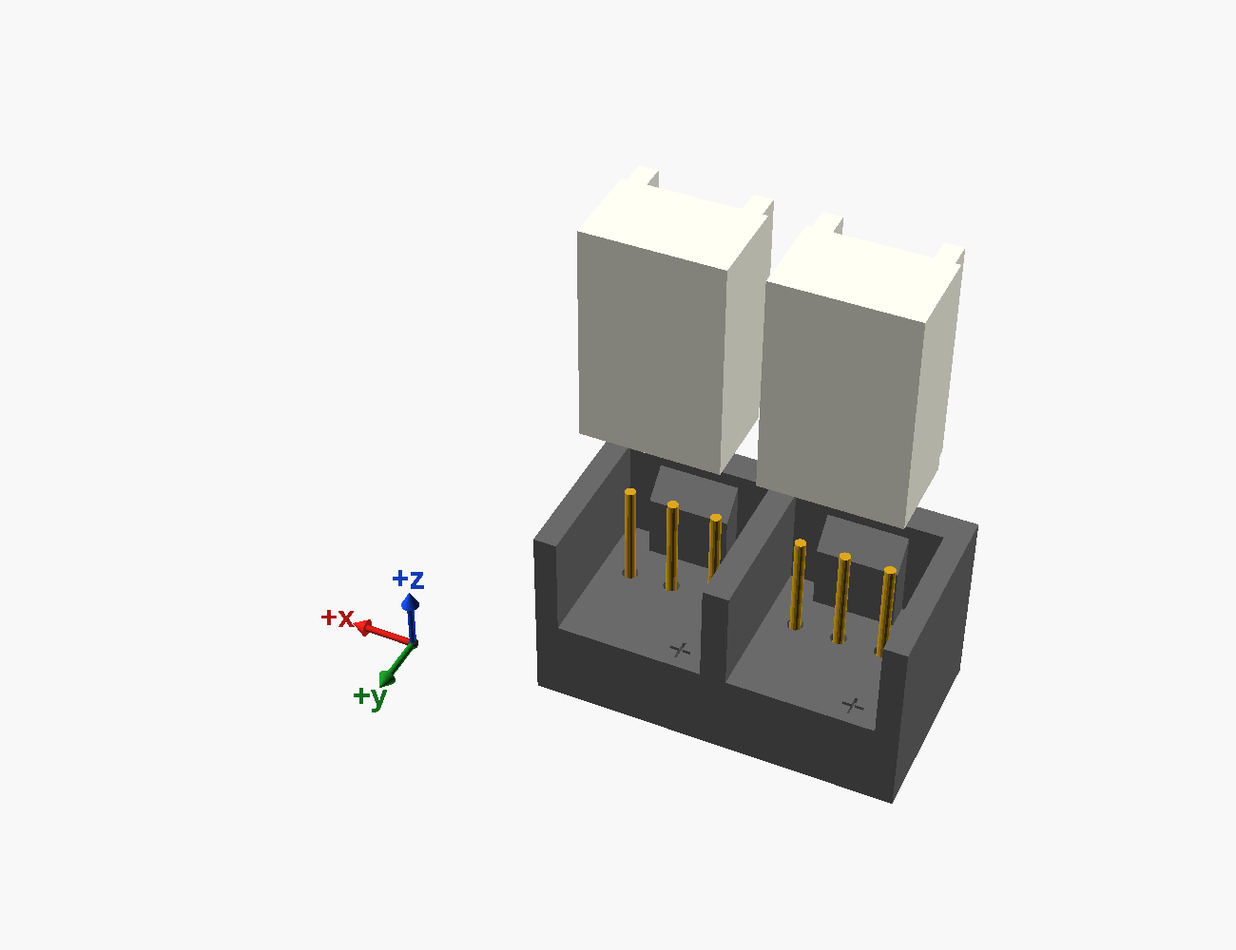
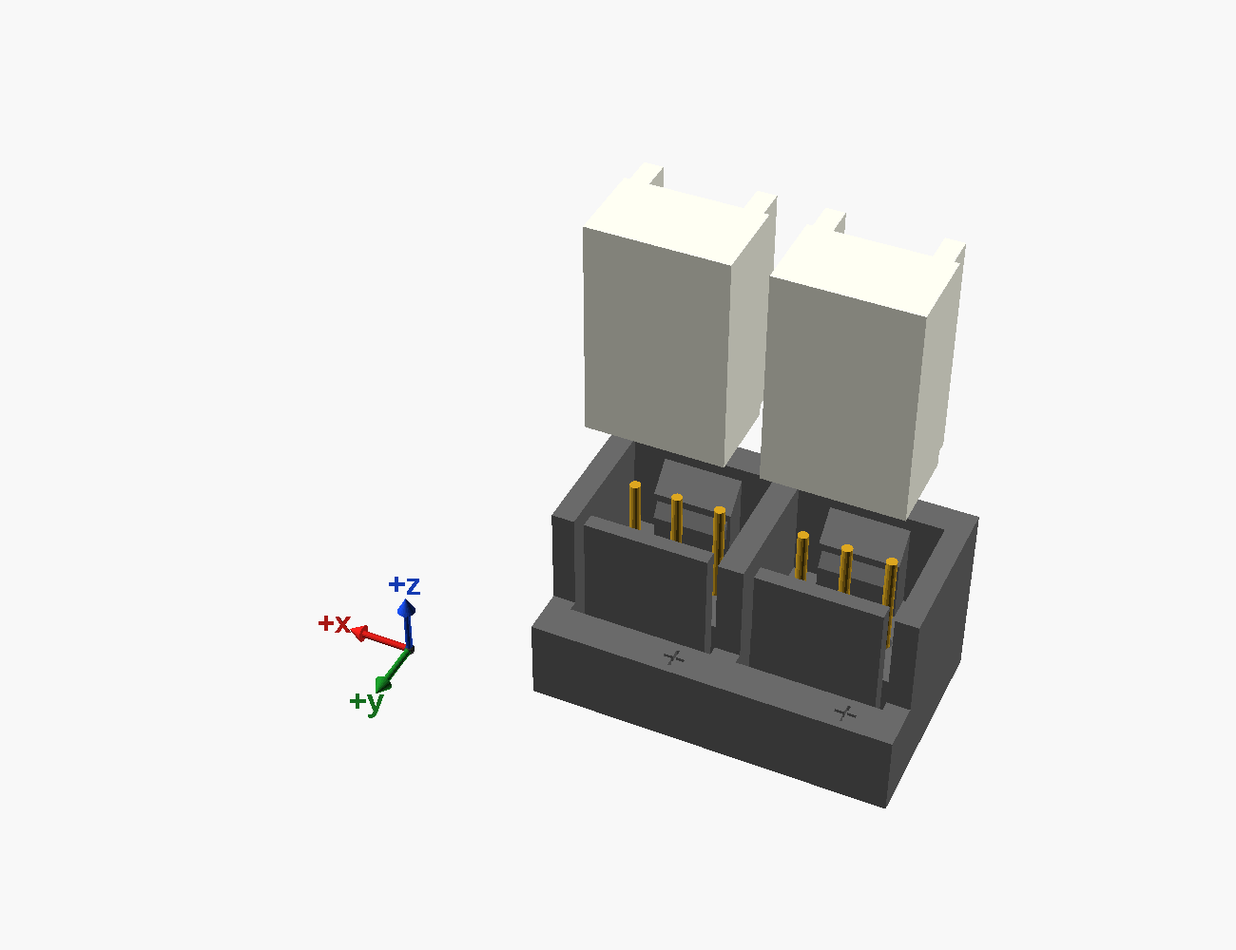
feat(bentobox): the mate's front walls and clips, and a glue frame
The fans' plug mate, as the fan connector's male (Alon, 9 Oct 2026): a wall
in front of each plug's text face, and D174 c - a clip on each key that
catches over the plug's lip and presses on it. Each front wall is a spring,
two lines thick, freed by 0.6 mm slits down into the block, so it gives for
the lip to pass. The plug's model gains its measured lip (0.3 x 2.2). New
views: the seated plug clears the clip with its press taken off; slid on
and off as far forward as its front wall allows, it meets nothing but the
clip, and must meet the clip (MEETS: the first check that must not come out
empty). 18 m, 1.6 g; still clear of the fans and the grommet.

T131: the clamp's wedges and teeth printed thin and fragile from damp ASA,
so the HEPA paper is now hot-glued into one frame (hepa_frame = "glue",
the default): the clamp's outline, walls three lines and 3 mm, a rim on the
ledge leaving its opening open, 94.1 mm of paper at 18 pleats cut on top
folds. Glue goes in from the top only. Its sample is one end, 32 m. The
clamp is shelved and still builds: its part files and checks run with
hepa_frame = "clamp", its numbers and figures unchanged; pleat.py stays on
it. The ASA sample plate carries the glue sample: 7 bodies.

Fits 45 of 45, controls 61 of 61; each new assert seen to fire; every part
built one closed body. The page records the samples tried 9 Oct: the USB-C
board fits perfectly, one tray nut spun, the fan nut's seat is loose.

diff --git a/scripts/bentobox-checks.py b/scripts/bentobox-checks.py
@@ -15,7 +15,7 @@
                                                for errors - rendered aside, or over docs/ with --write
 
 A fit check intersects two parts that may touch but must not overlap: OpenSCAD must write nothing, or a
-solid of no volume. The originals must be in models/bentobox/original/ (its README says where from); a
+solid of no volume - all but those in MEETS, which must meet, and whose controls must empty them. The originals must be in models/bentobox/original/ (its README says where from); a
 missing one makes an import fail, which OpenSCAD reports only as a WARNING - so every render's output is
 read, never only its exit code. OPENSCAD should name a build with the Manifold backend (the nightly).
 Exit status: 0 everything as expected, 1 anything else.
@@ -39,13 +39,17 @@ BACKEND = ["--backend=manifold"]
 UNSEALED = [("sealed", "false")]
 # The C-MAG stands in a housing of the original's height: its fit in the housing is checked with carbon = "cmag".
 CMAG = [("carbon", '"cmag"')]
+# The paper's clamp is shelved for the glue frame (T131) but kept buildable: its checks run with hepa_frame = "clamp".
+CLAMP = [("hepa_frame", '"clamp"')]
 FITS = [("check_section_carbon", UNSEALED), ("check_section_fans", UNSEALED), ("check_magnets_top", UNSEALED),
         ("check_magnets_bottom", UNSEALED), ("check_air", []),
-        ("check_clamp_holder", []), ("check_cover_holder", []), ("check_cover_magnets", []),
-        ("check_cmag_housing", CMAG), ("check_cmag_halves", []), ("check_cmag_magnets", []), ("check_cmag_grills", []), ("check_clamp_frames", []), ("check_clamp_paper", []),
-        ("check_clamp_opening", []), ("check_clamp_screws", []), ("check_clamp_nuts", []), ("check_clamp_nut_ways", []),
+        ("check_glue_holder", []), ("check_glue_paper", []), ("check_glue_opening", []),
+        ("check_clamp_holder", CLAMP), ("check_cover_holder", []), ("check_cover_magnets", []),
+        ("check_cmag_housing", CMAG), ("check_cmag_halves", []), ("check_cmag_magnets", []), ("check_cmag_grills", []), ("check_clamp_frames", CLAMP), ("check_clamp_paper", CLAMP),
+        ("check_clamp_opening", CLAMP), ("check_clamp_screws", CLAMP), ("check_clamp_nuts", CLAMP), ("check_clamp_nut_ways", CLAMP),
         ("check_auto_fans_base", []), ("check_auto_tray", []), ("check_tray_slot_walls", []), ("check_usb_board", []),
         ("check_grommet_hole", []), ("check_fan_mate", []), ("check_fan_mate_pins", []), ("check_fan_mate_place", []),
+        ("check_fan_mate_seat", []), ("check_fan_mate_free", []), ("check_fan_mate_catch", []),
         ("check_auto_nuts", []), ("check_auto_nut_ways", []),
         ("check_auto_screws", []), ("check_auto_wires", []), ("check_auto_air", []),
         ("check_seal_j1", []), ("check_seal_j2", []), ("check_seal_j3", []), ("check_seal_beads", []),
@@ -61,16 +65,21 @@ CONTROLS = [
     ("check_magnets_top", UNSEALED + [("mag_xy", "[23.5, 52.5]")], "the section's magnet holes moved 1 mm off the housing's"),
     ("check_magnets_bottom", UNSEALED + [("mag_xy", "[23.5, 52.5]")], "the same, against the fan case's"),
     ("check_air", [("in_w", "30")], "the section's inside narrowed into the openings' path"),
-    ("check_clamp_holder", [("clamp_play", "-0.3")], "the clamp made wider than the holder's pocket"),
-    ("check_clamp_frames", [("clamp_slot", "-0.4")], "the wedges and teeth made to meet through the paper's slot"),
-    ("check_clamp_opening", [("rim_in", "-13")], "the lower frame's rim made to reach in over the air's way down"),
-    ("check_clamp_screws", [("screw_shift", "[1, 0]")], "the clamp's screws moved 1 mm off their holes"),
-    ("check_clamp_nuts", [("pull_fit", "-0.25")], "the clamp's nut seats made narrower than a nut"),
-    ("check_clamp_nut_ways", [("clamp_way", "1")], "the clamp's nut ways stopped short of the lower frame's bottom"),
+    # The glue frame's inside and rim are derived: overriding them moves the frame and leaves the paper and the ledge.
+    ("check_glue_holder", [("clamp_play", "-0.3")], "the glue frame made wider than the holder's pocket"),
+    ("check_glue_paper", [("gf_in", "[18.5, 47.25]")], "the glue frame's side walls moved in onto the paper's top folds"),
+    ("check_glue_paper", [("gf_in", "[18.9, 46.8]")], "its end walls moved in onto the paper's cut ends"),
+    ("check_glue_opening", [("gf_rim", "[35, 85]")], "its rim made to reach in over the ledge's opening"),
+    ("check_clamp_holder", CLAMP + [("clamp_play", "-0.3")], "the clamp made wider than the holder's pocket"),
+    ("check_clamp_frames", CLAMP + [("clamp_slot", "-0.4")], "the wedges and teeth made to meet through the paper's slot"),
+    ("check_clamp_opening", CLAMP + [("rim_in", "-13")], "the lower frame's rim made to reach in over the air's way down"),
+    ("check_clamp_screws", CLAMP + [("screw_shift", "[1, 0]")], "the clamp's screws moved 1 mm off their holes"),
+    ("check_clamp_nuts", CLAMP + [("pull_fit", "-0.25")], "the clamp's nut seats made narrower than a nut"),
+    ("check_clamp_nut_ways", CLAMP + [("clamp_way", "1")], "the clamp's nut ways stopped short of the lower frame's bottom"),
     # The wedges' width is derived; overriding it moves the wedges and leaves the paper, drawn from its own values.
-    ("check_clamp_paper", [("wedge_w", "4")], "the clamp's wedges made wider than the paper's channels"),
-    ("check_clamp_paper", [("tooth_w", "4")], "the clamp's teeth made wider than theirs"),
-    ("check_clamp_paper", [("flap_off", "0")], "the half wedges' faces moved in onto the flaps' middles"),
+    ("check_clamp_paper", CLAMP + [("wedge_w", "4")], "the clamp's wedges made wider than the paper's channels"),
+    ("check_clamp_paper", CLAMP + [("tooth_w", "4")], "the clamp's teeth made wider than theirs"),
+    ("check_clamp_paper", CLAMP + [("flap_off", "0")], "the half wedges' faces moved in onto the flaps' middles"),
     ("check_auto_fans_base", [("fans_drop", "0.5")], "the fan section set 0.5 mm down into its base"),
     ("check_auto_tray", [("tray_top", "14.3")], "the tray made 0.3 mm taller than the bay's roof"),
     ("check_tray_slot_walls", [("tray_screw_y", "51.4")], "the tray's screws moved 1 mm in, their slots' backs under the end walls' fillets"),
@@ -83,6 +92,10 @@ CONTROLS = [
     ("check_fan_mate", [("fm_wall_y", "-3.2")], "the mate's wall moved in onto the plug's ribs"),
     ("check_fan_mate", [("fm_key_y", "-1.7")], "the key's face moved in onto the plug's ribbed face"),
     ("check_fan_mate", [("fm_px", "3.8")], "the mate's end walls and the wall between the plugs moved in onto their ends"),
+    ("check_fan_mate", [("fm_fy", "3.1")], "the mate's front walls moved in onto the plugs' text faces"),
+    ("check_fan_mate_seat", [("fmp_plug_lip_l", "2.4")], "the plug's lip made longer, up into the clip's underside"),
+    ("check_fan_mate_free", [("fm_px", "3.8")], "the mate's walls moved in, into the sliding plugs' way"),
+    ("check_fan_mate_catch", [("fm_fy", "3.6")], "the front walls moved out: the plugs step round the clips"),
     ("check_fan_mate_pins", [("fan_pitch", "3.3")], "the mate's pins spread to 3.3 mm, off the plug's holes"),
     ("check_fan_mate_pins", [("fm_core_d", "0.5")], "the block's holes made narrower than the wire's core"),
     ("check_fan_mate_place", [("fan_mate_at", "[4, 0]")], "the mate moved 6 mm towards the grommet"),
@@ -119,6 +132,8 @@ CONTROLS = [
     ("check_section_fans", UNSEALED + [("auto_fans_stl", '"original/missing.stl"')], "the Auto fan section's STL missing - must be reported, not passed"),
 ]
 MISSING = "Can't open import file"
+# The checks that must NOT come out empty: the plug slid off past the clip must meet it. Their controls must empty them.
+MEETS = {"check_fan_mate_catch"}
 
 # The checks hold parts that meet face to face 0.01 mm apart (bentobox-assembly.scad, `sep`), so a good fit
 # leaves NOTHING; DUST is only float noise.
@@ -138,11 +153,17 @@ def fits():
     failed = 0
     for (view, settings), (stats, bad, _) in zip(FITS, results):
         label = f"{view} {' '.join(f'{k}={v}' for k, v in settings)}"
+        empty = stats is None or abs(stats["volume"]) < DUST
         if bad:
             verdict, failed = "FAIL  " + "; ".join(bad)[:200], failed + 1
+        elif view in MEETS:
+            if empty:
+                verdict, failed = "FAIL  empty: it must meet", failed + 1
+            else:
+                verdict = f"ok    meets, {stats['volume']:.3f} mm3"
         elif stats is None:
             verdict = "ok    empty"
-        elif abs(stats["volume"]) < DUST:
+        elif empty:
             verdict = f"ok    dust ({stats['volume']:.5f} mm3)"
         else:
             verdict, failed = f"FAIL  {stats['volume']:.3f} mm3 overlap, in {describe(stats)}", failed + 1
@@ -162,6 +183,10 @@ def controls():
             failed += not caught
         elif bad:
             verdict, failed = "FAIL  " + "; ".join(bad)[:200], failed + 1
+        elif view in MEETS:
+            emptied = stats is None or abs(stats["volume"]) < DUST
+            verdict = "ok    caught, it came out empty" if emptied else f"BLIND still meets, {stats['volume']:.3f} mm3"
+            failed += not emptied
         elif stats is None or abs(stats["volume"]) < DUST:
             verdict, failed = "BLIND nothing found", failed + 1
         else:
@@ -175,8 +200,8 @@ def controls():
 FIGURES = {
     "exploded": [("view", '"exploded"')], "cut": [("view", '"cut"'), ("cut_x", "0")],
     "section-top": [("view", '"section"')], "section-bottom": [("view", '"section"'), ("axes_cam", "[235, 0, 30]")],
-    "paper-frame": [("view", '"frame"'), ("explode", "25")], "clamp-print": [("view", '"clamp_print"')],
-    "paper-cut": [("view", '"paper_cut"')], "auto-bottom": [("view", '"bottom"'), ("explode", "28"), ("axes_cam", "[50, 0, 215]")],
+    "paper-frame": [("view", '"frame"'), ("explode", "25")] + CLAMP, "clamp-print": [("view", '"clamp_print"')] + CLAMP,
+    "paper-cut": [("view", '"paper_cut"')] + CLAMP, "glue-frame": [("view", '"glue"'), ("explode", "30")], "auto-bottom": [("view", '"bottom"'), ("explode", "28"), ("axes_cam", "[50, 0, 215]")],
     "joints": [("view", '"joints"'), ("explode", "22")], "grommet": [("view", '"grommet"'), ("axes_cam", "[50, 0, 20]")],
     "fan-mate": [("view", '"fan_mate"'), ("explode", "12"), ("axes_cam", "[50, 0, 205]")],
 }
@@ -186,6 +211,7 @@ CAMERAS = {
     "section-top": ["--imgsize=1400,900", "--viewall", "--autocenter", "--camera=0,0,0,55,0,30,0"],
     "section-bottom": ["--imgsize=1400,900", "--viewall", "--autocenter", "--camera=0,0,0,235,0,30,0"],
     "paper-frame": ["--imgsize=1400,1100", "--viewall", "--autocenter", "--camera=0,0,0,55,0,30,0"],
+    "glue-frame": ["--imgsize=1400,1100", "--viewall", "--autocenter", "--camera=0,0,0,55,0,30,0"],
     "clamp-print": ["--imgsize=1400,900", "--viewall", "--autocenter", "--camera=0,0,0,55,0,25,0"],
     "paper-cut": ["--imgsize=1800,600", "--projection=o", "--camera=-12,11,0,0,0,0,125"],
     "auto-bottom": ["--imgsize=1400,1300", "--viewall", "--autocenter", "--camera=0,0,0,50,0,215,0"],

diff --git a/sim/bentobox-cfd/pleat.py b/sim/bentobox-cfd/pleat.py
@@ -59,7 +59,7 @@ def clamp():
     src = ROOT / "models" / "bentobox" / "bentobox.scad"
     with tempfile.TemporaryDirectory() as tmp:
         f = Path(tmp) / "c.scad"
-        f.write_text(f"include <{src.as_posix()}>\ndraw_model = false;\n"
+        f.write_text(f"include <{src.as_posix()}>\ndraw_model = false;\nhepa_frame = \"clamp\";\n"
                      "echo(pleat = [paper_t, paper_depth, 2 * pack_edge, 2 * comb_y - 2 * clamp_wedge_l, pack_n]);\n",
                      encoding="utf-8")
         out = Path(tmp) / "c.echo"

diff --git a/docs/bentobox-scrubber.md b/docs/bentobox-scrubber.md
@@ -38,8 +38,10 @@ The remix adds four parts, takes its bottom from the BentoBox Auto, and seals th
 | | What it does | File |
 |---|---|---|
 | **Section** | Goes between the carbon housing and the fan section, holding a flat filter sheet that stops carbon dust reaching the fans. Sealed at both its faces, with a pillar at each corner that the carbon housing's screws pass through. `sealed = false` builds it with the original's tongue, groove and magnets, to drop into any BentoBox v2.0 stack. | [`bentobox-section.scad`](../models/bentobox/bentobox-section.scad) |
-| **Paper clamp** | Two ASA frames, screwed together with a cut piece of pleated paper between them, standing on the HEPA holder's ledge in place of the cartridge: wedges from above and teeth from below pinch the paper's cut ends, and a bar from each its long edges. | [`bentobox-clamp-lower.scad`](../models/bentobox/bentobox-clamp-lower.scad), [`bentobox-clamp-upper.scad`](../models/bentobox/bentobox-clamp-upper.scad) |
-| **Clamp sample** | One end of each frame, on one plate: to try the pinch on an offcut before the whole clamp. | [`bentobox-clamp-sample.scad`](../models/bentobox/bentobox-clamp-sample.scad) |
+| **Glue frame** | One ASA frame your own pleated HEPA paper is hot-glued into, standing on the HEPA holder's ledge in place of the cartridge (T131, Alon, 9 Oct 2026). | [`bentobox-glue-frame.scad`](../models/bentobox/bentobox-glue-frame.scad) |
+| **Glue sample** | One end of the glue frame: to glue an offcut in before the whole frame. | [`bentobox-glue-sample.scad`](../models/bentobox/bentobox-glue-sample.scad) |
+| **Paper clamp** (shelved) | Two ASA frames, screwed together with a cut piece of pleated paper between them, standing on the HEPA holder's ledge in place of the cartridge: wedges from above and teeth from below pinch the paper's cut ends, and a bar from each its long edges. | [`bentobox-clamp-lower.scad`](../models/bentobox/bentobox-clamp-lower.scad), [`bentobox-clamp-upper.scad`](../models/bentobox/bentobox-clamp-upper.scad) |
+| **Clamp sample** (shelved) | One end of each frame, on one plate: to try the pinch on an offcut before the whole clamp. | [`bentobox-clamp-sample.scad`](../models/bentobox/bentobox-clamp-sample.scad) |
 | **Base** | In place of the duct, drawn to the Auto's: the duct over the bay's roof, the wires' tube, the fans' four nuts pulled up into pockets in posts, and four nuts in slots for the tray's screws. | [`bentobox-auto-base.scad`](../models/bentobox/bentobox-auto-base.scad) |
 | **Fan section** | In place of the fan case, drawn to the Auto's: its floor with the fans' openings and screws' holes, its top the sealed joint's, and its wires' hole opened out for the grommet. | [`bentobox-auto-fans.scad`](../models/bentobox/bentobox-auto-fans.scad) |
 | **Tray** | The bay under the base, 8 mm tall: its floor and walls, the USB-C trigger board in a pocket in the -Y end with its socket flush with the end face, and four magnet holes; screwed on under the base with four screws, their heads sunk in its bottom face. | [`bentobox-auto-tray.scad`](../models/bentobox/bentobox-auto-tray.scad) |
@@ -243,7 +245,7 @@ fifth of its air. So the leads pass the floor in a **grommet** (Alon, 9 Oct 2026
 **The fans' plug mate** (Alon, 9 Oct 2026). Each fan keeps its own 3-pin plug and pushes it onto a printed block in
 the fan section, so a fan comes out by unplugging it.
 
-![The plug mate with both fans' plugs lifted off it: the pins, the bared ends of the wires, standing out of the block; the walls round each plug, open at the front, with a key on the back one; a + in front of each red pin](bentobox/fan-mate.png)
+![The plug mate with both fans' plugs lifted off it: the pins, the bared ends of the wires, standing out of the block; walls on all four sides of each plug, a key and its clip on the back one, the front one standing free in its slits; a + in front of each red pin](bentobox/fan-mate.png)
 
 - **The pins are the wires.** 22 AWG solid wire (owned, the 5-colour UL1007): its bare core is 0.64 mm, a
   header pin's size. Bare each wire 7.5 mm, push it up through the block from below until its insulation stops
@@ -251,9 +253,15 @@ the fan section, so a fan comes out by unplugging it.
   Under the block, bend each wire over into the groove to the back edge. Once the block is fixed down, that bend
   stops a pin being pushed down when a plug goes on; until then, a drop of glue in the slot does it.
 - **One way on.** A wall stands behind each plug's ribbed face, and a key on it goes between the plug's two ribs,
-  so the plug only goes on with its text face to the front. A wall at each end of the block and one between the
-  plugs (Alon, 9 Oct 2026: "the mate needs sides and back") guide each plug on square; the front stays open. A
-  **+** in front of each plug marks the red wire's pin; the plug's own moulded arrow lands over it.
+  so the plug only goes on with its text face to the front. A wall at each end of the block, one between the plugs
+  and one in front of each plug's text face (Alon, 9 Oct 2026) close each plug in on all four sides. A **+** in
+  front of each plug marks the red wire's pin; the plug's own moulded arrow lands over it.
+- **A clip holds each plug on** (D174, Alon, 9 Oct 2026). A ridge across the key catches over the plug's lip - the
+  0.3 mm step across its open end between the ribs, 2.2 mm long - and its 45-degree underside presses on the lip's
+  edge. The front wall is a spring, two lines thick, freed by 0.6 mm slits from the walls beside it and down into
+  the block to 1 mm over its underside: it gives for the lip to ride over the ridge, going on and coming off, and
+  presses the plug onto the ridge once it is on. The reach (0.25 mm) and press (0.05 mm) are first guesses, the
+  same as the fan connector's male: try a real plug on a printed mate, and check the slits printed open.
 - **From the plug as measured** (Alon, 9 Oct 2026): 8.0 mm across its pins, 5.2 thick over a 0.3 mm lip across its open end (4.9 behind it), 6.67 over its ribs, the
   ribs 1.1 wide with 5.2 between them, its holes 1.45 mm and their nearer walls 2.55 mm from the text face. The
   key is 4.7 wide, 0.25 mm of play each side of the plug.
@@ -335,7 +343,35 @@ Pleated HEPA paper off a roll can take the bought cartridge's place. The origina
 remix cuts the pocket out to the box's whole inside, 100.8 × 40.8 mm with its rounded corners, from the ledge
 up, and the ledge's opening with it, to 87.5 × 36.8 mm (78 × 36.8 on the original).
 
-A clamp holds the paper there: two ASA frames with a cut piece of paper between them, screwed together into a
+### The glue frame
+
+Alon, 9 Oct 2026 (T131): the clamp's wedges and teeth printed thin and fragile from ASA that was not dry, so the
+paper is hot-glued into one frame instead. The clamp is shelved until the filament is dried, and still builds
+with `hepa_frame = "clamp"` (below).
+
+![The glue frame with the cut paper lifted out of it: walls all round, a rim round the bottom leaving the ledge's opening open, the paper's folds running end to end](bentobox/glue-frame.png)
+
+- **The frame.** One ASA frame with the clamp's outline, 100.5 × 40.5 mm and 22.9 mm tall: side walls three
+  lines thick, end walls 3 mm, standing 1.5 mm over the paper's top folds, and a rim round its bottom, 1.2 mm
+  thick, that stands on the ledge and leaves the ledge's 87.5 × 36.8 mm opening open. No fins: every wall is
+  solid, the thinnest place 1.1 mm, at the corners. 1 h 16 m, 10 g.
+- **The paper.** A piece **94.1 mm long along the folds and 18 pleats across, both long edges cut on a top
+  fold**; the frame takes it at 2.08 mm a pleat, 37.4 mm across. It is 7 mm longer than the clamp's piece,
+  since nothing reaches into its ends now, and the sheet still gives three pieces.
+- **Glue from the top only.** The dirty air comes in at the top, so closing the top closes every way round the
+  paper. Stand the paper in the frame on its rim, its cut ends against the end walls. At each end, fill the end
+  of every channel open at the top with glue, down to its bottom fold and a few millimetres along - the glue
+  does what the clamp's wedges did. Then run a bead across each end, over the top folds' cut ends and into the
+  corner with the end wall, and one along each long side, where the top fold meets the wall. The channels open
+  at the bottom end over the rim, which closes them: nothing is needed underneath.
+- **Heat.** Ordinary hot-melt glue softens from about 60 °C, and the frame sits in the chamber's air: if the
+  chamber runs over about 50 °C, use high-temperature sticks.
+- **Try it first.** The glue sample is one end of the frame, 16 mm of it (32 m, 3 g). Glue an offcut 16 mm long
+  into it as above, and look up through it at a light: none should come round the paper's end or its sides.
+
+### The clamp (shelved)
+
+Two ASA frames with a cut piece of paper between them, screwed together into a
 cassette that stands on the ledge, 100.5 × 40.5 mm. It takes a piece 87.1 mm long and 40.3 mm across - 18
 pleats and a half each side (D143) - where the bought cartridge is 80 × 40 and the original's pocket took 75.7 ×
 37.2 of this paper: 25 % more paper than that.
@@ -417,7 +453,8 @@ one of them on two plates, [`bentobox-samples-asa.scad`](../models/bentobox/bent
 
 - **The joint sample** and its TPU bead - one end of a sealed joint, and a fan nut's seat (see *The sealed
   joints*).
-- **The clamp sample** - one end of each of the paper clamp's frames (see *Your own HEPA paper*).
+- **The glue sample** - one end of the glue frame (see *The glue frame*). The clamp's sample still builds, but is
+  off the plate.
 - **The bottom sample** - the tray's -Y end, 18 mm of it, and the base's floor over it, 7 mm. Drop the USB-C
   trigger board into its pocket: its socket's face should sit flush with the end face, and a USB-C plug should go
   all the way in, the stop behind the board taking the push. Slide a nut into each of the two slots in the base's
@@ -428,11 +465,19 @@ one of them on two plates, [`bentobox-samples-asa.scad`](../models/bentobox/bent
   sides and hold. Then push four spare leads like the fans' through it, one down each groove and through its hole
   in the skin: they should not slide easily, and the skin should hold round each.
 
+**Tried, 9 Oct 2026** (T131), with ASA that was not dry and strung:
+
+- **The USB-C trigger board fits perfectly** in the bottom sample's pocket.
+- Of the bottom sample's two tray nuts, one held as its screw was driven; **the other spun in its slot**.
+- **The fan nut's seat is very loose**: the nut slides in and falls out.
+- **The TPU bead** sits in the joint's groove and compresses a lot.
+- **The clamp's wedges and teeth** came out thin and fragile: hence the glue frame.
+
 ## Printing
 
 Every part prints as its file draws it, standing on its bottom - the section, the base on its floor, the tray,
-the fan section, the carbon housing and the HEPA holder - the cover on its top face, the clamp's lower frame on its
-rim and its upper frame turned over onto its band, and a bead ring flat. With the C-MAG, its parts print from their
+the fan section, the carbon housing and the HEPA holder - the cover on its top face, the glue frame on its rim,
+the clamp's lower frame on its rim and its upper frame turned over onto its band, and a bead ring flat. With the C-MAG, its parts print from their
 own files: the tray on its floor, the lid on its top face, the grills flat. No supports, no brim. `sh scripts/bentobox-print.sh` builds every one, checks it and slices
 it, and puts its STL and G-code in `models/bentobox/print/`; name parts to build only those - `samples-asa
 samples-tpu` for the two sample plates.
@@ -440,9 +485,11 @@ samples-tpu` for the two sample plates.
 | Part | Material | Count | Time | Filament |
 |---|---|---|---|---|
 | Section | ASA | 1 | 1 h 57 m | 17 g |
-| Clamp, lower frame | ASA | 1 | 1 h 28 m | 10 g |
-| Clamp, upper frame | ASA | 1 | 1 h 11 m | 8 g |
-| Clamp sample | ASA | 1 plate | 1 h 7 m | 7 g |
+| Glue frame | ASA | 1 | 1 h 16 m | 10 g |
+| Glue sample | ASA | 1 | 32 m | 3 g |
+| Clamp, lower frame (shelved) | ASA | 1 | 1 h 29 m | 10 g |
+| Clamp, upper frame (shelved) | ASA | 1 | 1 h 11 m | 8 g |
+| Clamp sample (shelved) | ASA | 1 plate | 1 h 7 m | 7 g |
 | Base | ASA | 1 | 3 h 25 m | 36 g |
 | Fan section | ASA | 1 | 3 h 42 m | 36 g |
 | Tray | ASA | 1 | 1 h 47 m | 20 g |
@@ -453,9 +500,9 @@ samples-tpu` for the two sample plates.
 | Joint sample | ASA | 1 plate | 1 h 7 m | 10 g |
 | Joint sample's bead | TPU 95A | 1 | 3 m | under 1 g |
 | Grommet | TPU 95A | 1 | 2 m | under 1 g |
-| Fans' plug mate | ASA | 1 | 16 m | 1.4 g |
+| Fans' plug mate | ASA | 1 | 18 m | 1.6 g |
 | Bottom sample | ASA | 1 plate | 45 m | 7 g |
-| Samples, ASA | ASA | 1 plate | 3 h 5 m | 25 g |
+| Samples, ASA | ASA | 1 plate | 2 h 26 m | 21 g |
 | Samples, TPU | TPU 95A | 1 plate | 5 m | under 1 g |
 
 Times and weights are PrusaSlicer's, at 0.2 mm with the house profile `0.2mm QUALITY @MK3 - no skirt, no
@@ -486,7 +533,9 @@ For the joint sample, from the same stock: 2 M3 nuts, 1 M3 × 12 and 1 M3 × 8. 
 2.5 mm hex screwdriver, its blade 75 mm or longer. For the bottom sample: 2 M3 nuts,
 2 M3 × 12 and the USB-C trigger board.
 
-For the paper's clamp:
+For the glue frame: a hot-glue gun and sticks, high-temperature ones if the chamber runs hot.
+
+For the paper's clamp, shelved:
 
 | Quantity | Item |
 |---|---|
@@ -608,20 +657,21 @@ holes. It runs the air's way from the housing's floor - its honeycomb, or with t
 the section. It stands the cover on the HEPA holder, its plug in the holder's top, a magnet across the joint
 at each corner. With `carbon = "cmag"` it stands the C-MAG in the carbon housing, clear of its walls and of the HEPA holder; and
 it closes the C-MAG's lid
-on its tray, a magnet across their joint at each corner, and sets the four grills in their slots. For the paper's clamp it stands the cassette in the cut-out HEPA holder, sets the
+on its tray, a magnet across their joint at each corner, and sets the four grills in their slots. It stands the glue frame in the cut-out HEPA holder, the paper in the frame against its walls, and keeps the
+ledge's opening clear of the frame's rim. For the paper's clamp, with `hepa_frame = "clamp"`, it stands the cassette in the cut-out HEPA holder, sets the
 upper frame on the lower one - meeting only at the end blocks - lays a model of the paper, drawn from its own
 values at the slot's thickness, in the frames' zigzag, keeps the air's way down under the paper open, and
 runs the four screws through the end blocks and the nuts into their seats and down out of them. It sets the
 grommet in the fan section's floor, lip in groove. It seats the fans' plugs, drawn from their measurements, on
-their mate, ribs either side of each key and clear of the walls, and runs the wires' cores up through the block
+their mate, ribs either side of each key and clear of the walls and - the press taken off - of the clips, slides each plug on and off as far forward as its front wall lets it, meeting nothing but its clip and meeting that (the one check that must not come out empty), and runs the wires' cores up through the block
 into the plugs' holes. For the bottom it stands the fan
 section on the base and the base on the tray, lays the USB-C board in its pocket - its socket through its notch,
 flush with the end face - sets a nut in each of the tray's slots and slides it out through
 the end face, and one in each fan screw's seat and draws it down its pocket and out under its post, keeps two
 beads of the end wall round each tray slot and its screw's hole, runs each screw from its head to its tip, and
 the wires down the tube, and the fans' air down into the base past the posts. Each must come out empty. Every check has a positive control,
-something broken on purpose that it must catch, and the run fails if one passes unnoticed: 39 fits and
-53 controls.
+something broken on purpose that it must catch, and the run fails if one passes unnoticed: 45 fits and
+61 controls.
 
 [`bentobox.params.scad`](../models/bentobox/bentobox.params.scad) holds the original's dimensions, measured
 by sectioning its STLs, and every setting of the section and of the paper's frame.

diff --git a/README.md b/README.md
@@ -21,8 +21,8 @@ there.
 [`docs/chamber-sensor.md`](docs/chamber-sensor.md) is the full status and the index to the topic pages;
 [`docs/chamber-airflow.md`](docs/chamber-airflow.md) is the filter and extraction build, and
 [`docs/bentobox-scrubber.md`](docs/bentobox-scrubber.md) the filter itself: ThrutheFrame's BentoBox v2.0,
-remixed, with a carbon-dust section, sealed joints, the BentoBox Auto's bottom and a screwed clamp for the build's own
-HEPA paper. The LunchBox remix it was weighed against is archived in [`archive/lunchbox/`](archive/lunchbox/).
+remixed, with a carbon-dust section, sealed joints, the BentoBox Auto's bottom and a frame the build's own
+HEPA paper is hot-glued into. The LunchBox remix it was weighed against is archived in [`archive/lunchbox/`](archive/lunchbox/).
 
 ## What is where
 
@@ -30,7 +30,7 @@ HEPA paper. The LunchBox remix it was weighed against is archived in [`archive/l
 |---|---|
 | [`docs/chamber-sensor.md`](docs/chamber-sensor.md), [`docs/chamber-sensor/`](docs/chamber-sensor/) | the record and the decisions: sensors, the node, boards, WiFi, the SuperMini antenna, measurements, heating and airflow, the build order |
 | [`docs/chamber-airflow.md`](docs/chamber-airflow.md) | the two-fan filter and extraction plan |
-| [`docs/bentobox-scrubber.md`](docs/bentobox-scrubber.md), [`models/bentobox/`](models/bentobox/), [`scripts/bentobox-checks.py`](scripts/bentobox-checks.py), [`scripts/bentobox-auto-stl.py`](scripts/bentobox-auto-stl.py) | the filter: BentoBox v2.0 with its carbon magazine, a carbon-dust section for it, sealed joints, a screwed clamp for the build's own HEPA paper, the BentoBox Auto's bottom with nuts for its heat-set inserts, and its fit checks |
+| [`docs/bentobox-scrubber.md`](docs/bentobox-scrubber.md), [`models/bentobox/`](models/bentobox/), [`scripts/bentobox-checks.py`](scripts/bentobox-checks.py), [`scripts/bentobox-auto-stl.py`](scripts/bentobox-auto-stl.py) | the filter: BentoBox v2.0 with its carbon magazine, a carbon-dust section for it, sealed joints, a hot-glue frame for the build's own HEPA paper (its screwed clamp shelved), the BentoBox Auto's bottom with nuts for its heat-set inserts, and its fit checks |
 | [`sim/`](sim/) | the filter's airflow simulation, OpenFOAM, from its model |
 | [`archive/lunchbox/`](archive/lunchbox/) | archived 8 Oct 2026, not built: the LunchBox remix it was weighed against - its parts, build page, fit checks and airflow simulation, as they were, and still working |
 | [`scad-tools/`](https://github.com/AlonRR/scad-tools) | the shared OpenSCAD tools, a git submodule: `scad-check.sh`, and the xyz arrows the pictures use |
